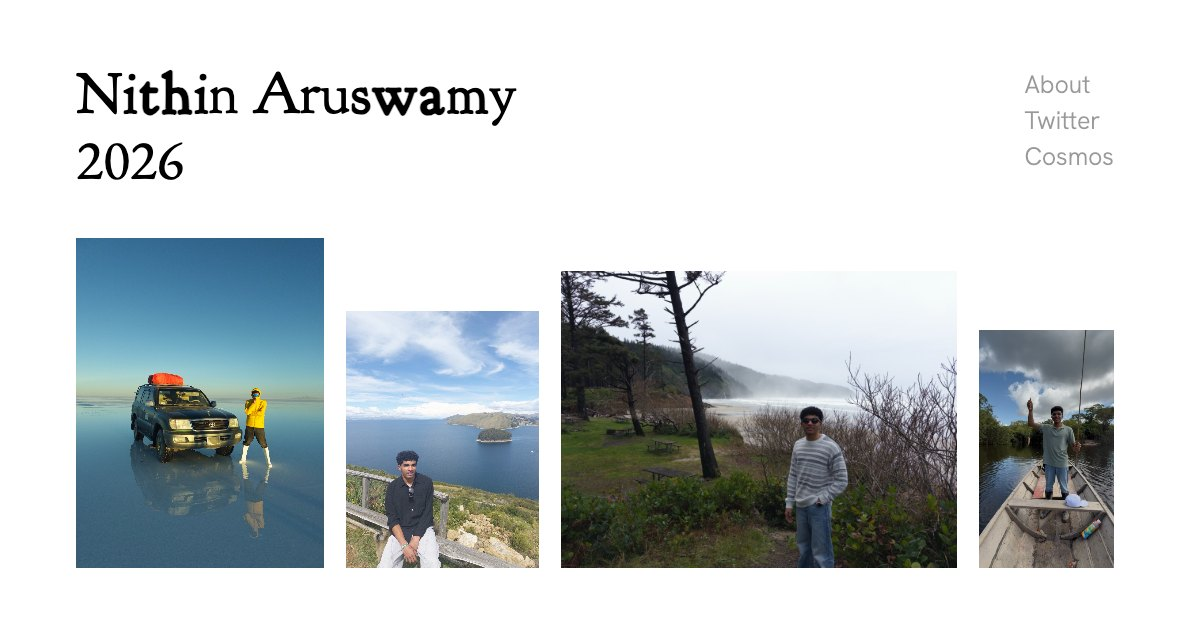
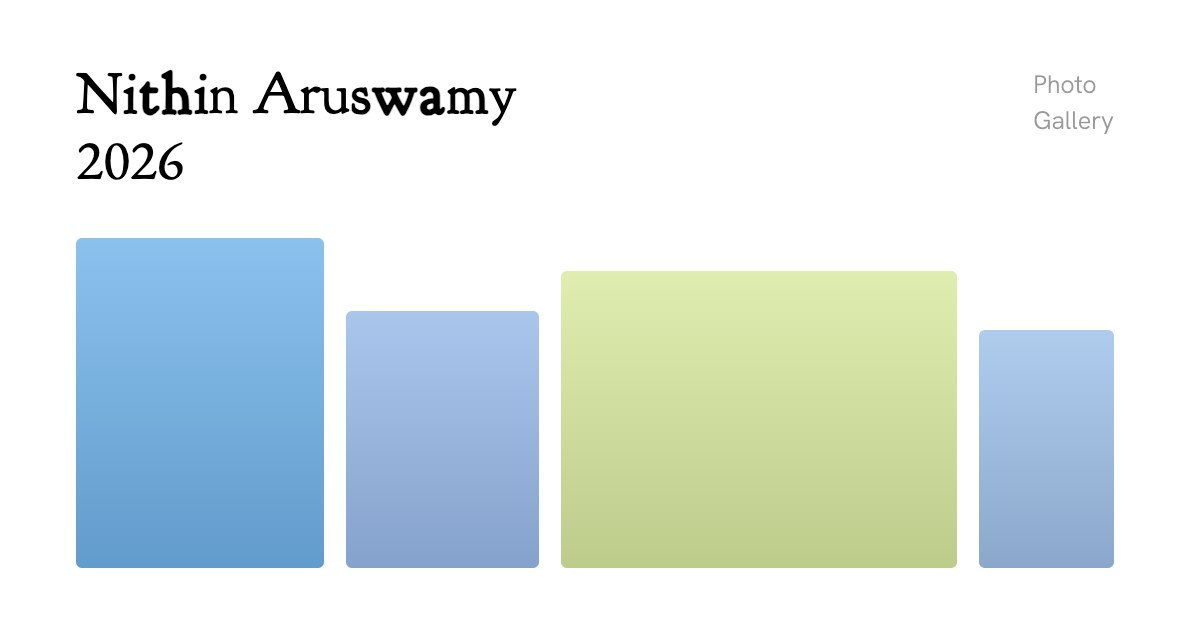
Turn the link-preview photos into colored skeleton blocks
Each trip photo becomes a soft rounded block in a pastel drawn from the
photo's own most vivid color; the nav reads Photo / Gallery.

diff --git a/index.html b/index.html
@@ -17,7 +17,7 @@
 <meta property="og:image:type" content="image/jpeg">
 <meta property="og:image:width" content="1200">
 <meta property="og:image:height" content="630">
-<meta property="og:image:alt" content="Nithin Aruswamy, 2026, above a line of travel photographs">
+<meta property="og:image:alt" content="Nithin Aruswamy, 2026, above a line of colored photo placeholders">
 <meta name="twitter:card" content="summary_large_image">
 <meta name="twitter:title" content="Travel with Nithin">
 <meta name="twitter:description" content="Photos and stories from 50+ countries, from Bolivia's salt flats to Tokyo, by Nithin Aruswamy, author of the #1 Amazon New Release Jet-Set Teen.">
